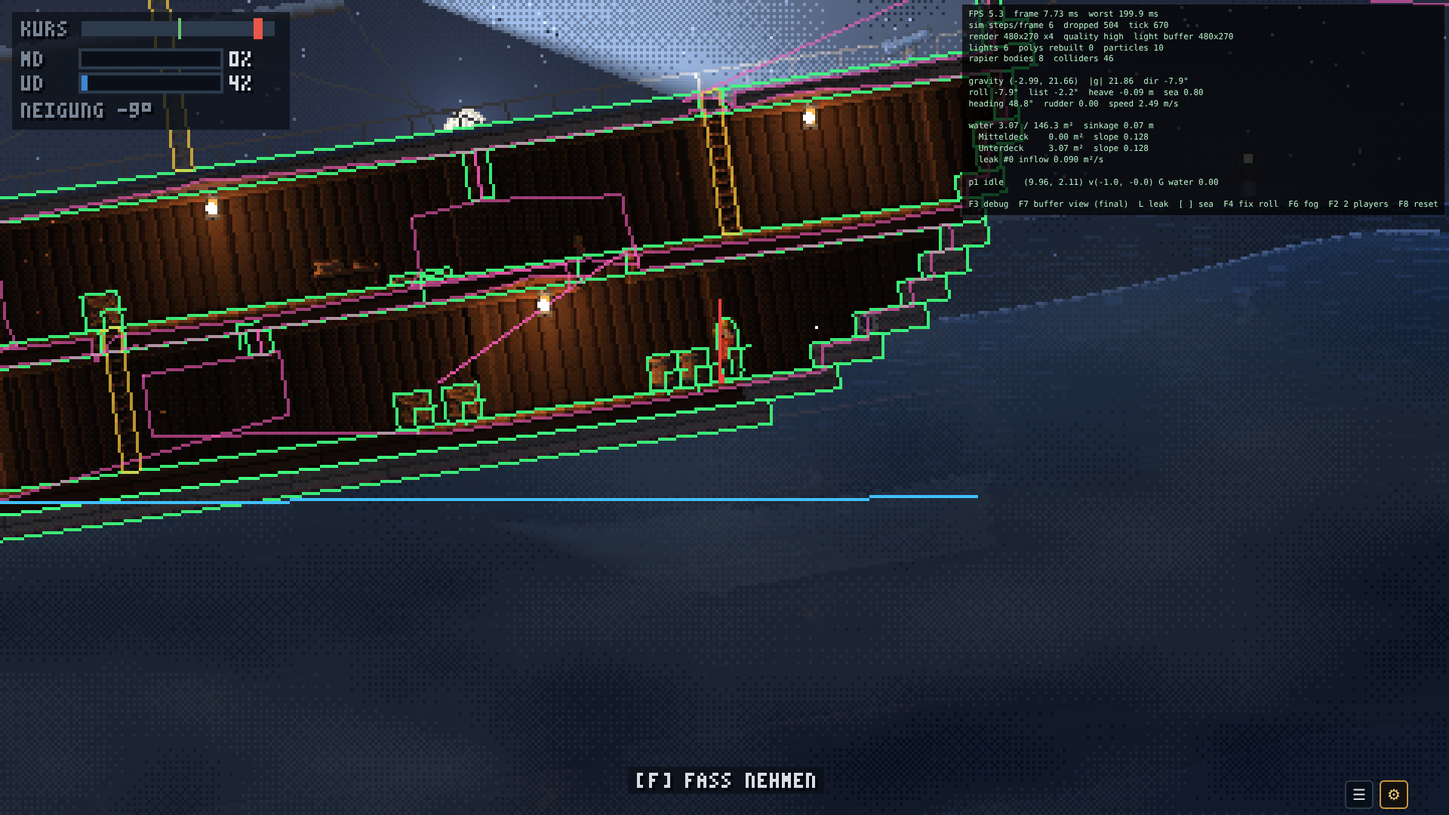
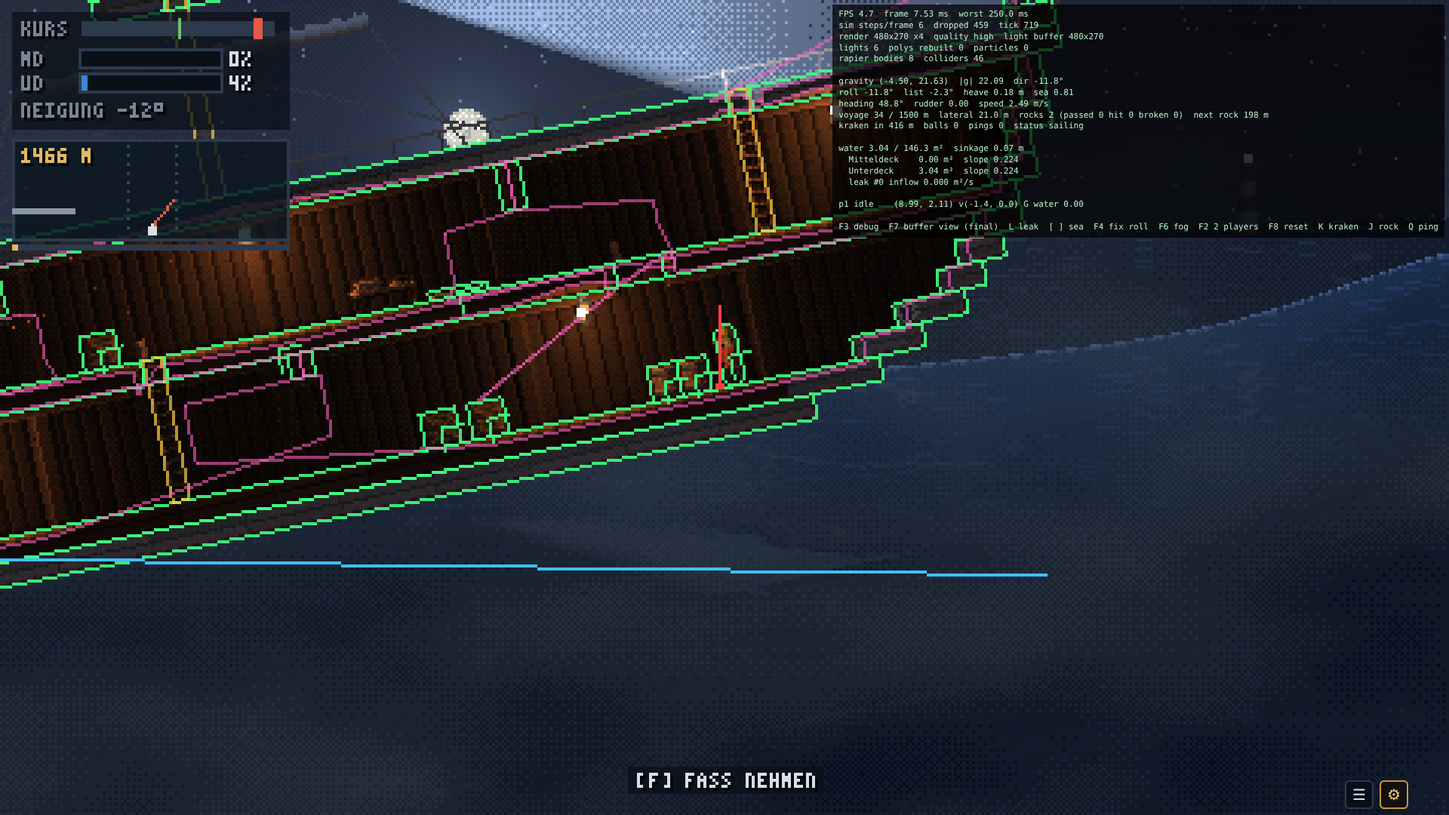
Phase 4: balance, stop at the lighthouse, tuning, verification, docs
Rocks spawn around where the ship will be on its current heading (drifting
no longer dodges them), the ship sinks once the lower deck is full (42 %),
a kraken without planks left to break presses water in. Simulated: without
a crew the ship sinks after 3-5 minutes. On arrival the ship stops in front
of the lighthouse island and the camera turns to it. New tuning section
'Fahrt & Gefahren'. Browser verification covers rock spotting, cannon,
arrival, online pings and the touch ping button. README / DECISIONS / PLAN.

Claude-Session: https://claude.ai/code/session_012Hak5DpWGinFi5foozbzFZ

diff --git a/shared/src/simulation.ts b/shared/src/simulation.ts
@@ -104,6 +104,10 @@ export type HintIcon = 'wheel' | 'pump' | 'searchlight' | 'cannon' | 'workshop' 
 export const ROCK_LOOKAHEAD = 160;
 /** World x offset of the bow tip from the ship pivot (m). */
 export const BOW_OFFSET = 15.6;
+/** Seconds the ship needs to stop after arriving. */
+const ARRIVE_STOP_TIME = 4;
+/** The lighthouse island stands this far past the end of the voyage (m, world x). */
+export const LIGHTHOUSE_ISLAND = 26;
 /** Where the kraken grabs the bow (m ahead of the pivot). */
 export const MONSTER_ATTACK_OFFSET = 19;
 /** Ship-local position of the searchlight lens pivot and the cannon barrel pivot relative to their station (m). */
@@ -443,7 +447,10 @@ export class Simulation {
       volume += c.volume;
       moment += c.volume * c.centroidX;
     }
-    updateShip(s.ship, s.time, dt, { volume, moment }, this.tuning.ship, this.tuning.gameplay.gravity);
+    // arrived: the ship slows down and stops in front of the lighthouse island
+    const G = this.tuning.gameplay;
+    const throttle = s.status === 'arrived' ? clamp((s.statusTimer - (G.arrivedResetTime - ARRIVE_STOP_TIME)) / ARRIVE_STOP_TIME, 0, 1) : 1;
+    updateShip(s.ship, s.time, dt, { volume, moment }, this.tuning.ship, G.gravity, throttle);
     if (s.forcedRoll !== null) {
       s.ship.roll = s.forcedRoll;
       s.ship.rollVel = 0;
@@ -1160,10 +1167,16 @@ export class Simulation {
     const v = s.voyage;
     const G = this.tuning.gameplay;
     const ship = s.ship;
+    // after a jump (debug, reconnect) never spawn a pile of rocks behind the bow
+    if (v.nextRockX < ship.x + 60) v.nextRockX = ship.x + 60;
     // new rocks appear far ahead, denser the closer the lighthouse
     while (v.nextRockX - ship.x < ROCK_LOOKAHEAD && v.nextRockX < v.length - 40) {
+      // around where the ship will be when it gets there on its current heading:
+      // drifting off course does not dodge rocks, only steering does
+      const eta = (v.nextRockX - ship.x) / Math.max(0.5, ship.speed);
+      const predicted = ship.lateral + this.tuning.ship.speed * Math.sin(ship.heading) * eta;
       const inLane = nextRandom(s) < 0.45;
-      const lateral = ship.lateral + (inLane ? this.rand(-1.5, 1.5) : this.rand(-8, 8));
+      const lateral = predicted + (inLane ? this.rand(-1.5, 1.5) : this.rand(-8, 8));
       s.rocks.push({ id: this.nextId(), x: v.nextRockX, lateral, radius: this.rand(1.6, 3.4), spotted: false, hit: false });
       v.nextRockX += this.rand(G.rockSpacingMin, G.rockSpacingMax) * (1 - 0.35 * progress);
     }
@@ -1208,8 +1221,8 @@ export class Simulation {
     if (r.radius > 2.8) this.leakAt('bottom');
   }
 
-  /** Opens a new leak in a part of the hull (bow / bottom), if one is still intact there. */
-  private leakAt(where: 'bow' | 'bottom' | 'any'): void {
+  /** Opens a new leak in a part of the hull (bow / bottom), if one is still intact there. Returns false if none is left. */
+  private leakAt(where: 'bow' | 'bottom' | 'any'): boolean {
     const L = this.layout;
     const midX = L.width / 2;
     const candidates = L.leakPoints.filter((lp) => {
@@ -1218,9 +1231,10 @@ export class Simulation {
       if (where === 'bottom') return lp.inward.y !== 0 || lp.tx > midX + 8;
       return true;
     });
-    if (candidates.length === 0) return;
+    if (candidates.length === 0) return false;
     const pick = candidates[Math.floor(nextRandom(this.state) * candidates.length) % candidates.length]!;
     this.createLeak(pick.id);
+    return true;
   }
 
   /** World-space ray of the searchlight (origin, angle), or null. */
@@ -1278,7 +1292,15 @@ export class Simulation {
           m.attackIn = G.monsterAttackInterval;
           s.ship.rollVel += 0.25;
           this.emit({ type: 'monsterAttack' });
-          this.leakAt('bow');
+          if (!this.leakAt('bow')) {
+            // no planks left to break: it squeezes the hull and water pours in
+            const lower = s.compartments[s.compartments.length - 1];
+            const geom = this.waterGeometry[s.compartments.length - 1];
+            if (lower && geom) {
+              lower.volume = Math.min(geom.capacity, lower.volume + 0.8);
+              refreshSurface(geom, lower);
+            }
+          }
         }
         break;
       case 'flee':

diff --git a/client/src/ui/TuningPanel.ts b/client/src/ui/TuningPanel.ts
@@ -67,6 +67,22 @@ const SECTIONS: { title: string; items: Spec[] }[] = [
       { group: 'gameplay', key: 'sinkFraction', label: 'Sinkt ab Füllung', min: 0.2, max: 1, step: 0.01, unit: '×' },
     ],
   },
+  {
+    title: 'Fahrt & Gefahren',
+    items: [
+      { group: 'gameplay', key: 'voyageLength', label: 'Strecke (ab Neustart)', min: 200, max: 4000, step: 50, unit: 'm' },
+      { group: 'gameplay', key: 'stormGrowth', label: 'Sturm wächst um', min: 0, max: 1, step: 0.05 },
+      { group: 'gameplay', key: 'rockSpacingMin', label: 'Felsen-Abstand min', min: 15, max: 200, step: 5, unit: 'm' },
+      { group: 'gameplay', key: 'rockSpacingMax', label: 'Felsen-Abstand max', min: 20, max: 300, step: 5, unit: 'm' },
+      { group: 'gameplay', key: 'rockSpotRange', label: 'Scheinwerfer-Reichweite', min: 20, max: 160, step: 5, unit: 'm' },
+      { group: 'gameplay', key: 'shipBeam', label: 'Schiffsbreite (halb)', min: 1, max: 5, step: 0.1, unit: 'm' },
+      { group: 'gameplay', key: 'monsterEvery', label: 'Krake alle', min: 100, max: 2000, step: 25, unit: 'm' },
+      { group: 'gameplay', key: 'monsterHp', label: 'Krake: Treffer nötig', min: 1, max: 10, step: 1 },
+      { group: 'gameplay', key: 'monsterAttackInterval', label: 'Krake greift an alle', min: 2, max: 30, step: 0.5, unit: 's' },
+      { group: 'gameplay', key: 'cannonReload', label: 'Kanone lädt', min: 0.3, max: 8, step: 0.1, unit: 's' },
+      { group: 'gameplay', key: 'ballSpeed', label: 'Kugel-Tempo', min: 8, max: 50, step: 1, unit: 'm/s' },
+    ],
+  },
 ];
 
 const STORAGE_KEY = 'lw.tuning.v1';

diff --git a/client/src/game/Game.ts b/client/src/game/Game.ts
@@ -2,6 +2,7 @@ import { Sprite } from 'pixi.js';
 import {
   BOW_OFFSET,
   DEFAULT_TUNING,
+  LIGHTHOUSE_ISLAND,
   PLAYER_HALF_HEIGHT,
   monsterHead,
   worldToShip,
@@ -579,6 +580,12 @@ export class Game {
       tx = (targets.reduce((a, p) => a + p.x, 0) / targets.length) * PPM;
       ty = (targets.reduce((a, p) => a + p.y, 0) / targets.length) * PPM + 18;
     }
+    // arrived: the camera turns towards the lighthouse island
+    if (s.status === 'arrived') {
+      const islandX = (s.voyage.length + LIGHTHOUSE_ISLAND) * PPM;
+      tx = tx + (Math.min(islandX, tx + 260) - tx) * 0.55;
+      ty -= 20;
+    }
     if (!this.camera) this.camera = { x: tx, y: ty };
     const k = 1 - Math.exp(-dt * 5);
     this.camera.x += (tx - this.camera.x) * k;
@@ -604,7 +611,7 @@ export class Game {
     let lx = left + width * 0.86;
     // the far sea band is drawn with a quarter of the wave height, 34 px up
     let ly = farSurfaceAt(lx) * 0.25 - 31;
-    const islandX = (s.voyage.length + 22) * PPM;
+    const islandX = (s.voyage.length + LIGHTHOUSE_ISLAND) * PPM;
     const near = islandX < lx;
     if (near) {
       lx = islandX;

diff --git a/shared/src/ship.ts b/shared/src/ship.ts
@@ -80,12 +80,13 @@ export function updateShip(
   load: HullLoad,
   M: Readonly<ShipTuning> = DEFAULT_TUNING.ship,
   gravity = GRAVITY,
+  throttle = 1,
 ): void {
   // course
   ship.heading = clamp(ship.heading + (ship.rudder * M.turnRate + courseDrift(t)) * dt, -1.3, 1.3);
-  ship.speed = M.speed * (0.35 + 0.65 * Math.cos(ship.heading));
+  ship.speed = M.speed * (0.35 + 0.65 * Math.cos(ship.heading)) * throttle;
   ship.x += ship.speed * dt;
-  ship.lateral += M.speed * Math.sin(ship.heading) * dt;
+  ship.lateral += M.speed * Math.sin(ship.heading) * dt * throttle;
 
   // list from water distribution and rudder heel
   const maxList = M.maxListDeg * DEG;

diff --git a/shared/src/tuning.ts b/shared/src/tuning.ts
@@ -144,7 +144,7 @@ export const CODE_DEFAULTS: Readonly<Tuning> = {
     searchlightSpeed: 1.5,
     cannonSpeed: 1.0,
     workshopCooldown: 1.0,
-    sinkFraction: 0.8,
+    sinkFraction: 0.42,
     sunkResetTime: 5,
     overboardTime: 2.5,
     bubbleTime: 3,

diff --git a/shared/src/index.ts b/shared/src/index.ts
@@ -14,6 +14,7 @@ export { GROUP, OBJECT_SPECS, initPhysics } from './physics';
 export {
   BOW_OFFSET,
   CANNON_PIVOT,
+  LIGHTHOUSE_ISLAND,
   MONSTER_ATTACK_OFFSET,
   ROCK_LOOKAHEAD,
   SEARCHLIGHT_PIVOT,

diff --git a/README.md b/README.md
@@ -4,8 +4,9 @@ Koop-Browserspiel für 2–4 Spieler: Die Crew steuert ein Schiff durch einen ne
 Das Schiff ist ein Querschnitt mit drei Decks; man läuft zu Stationen (Steuerrad, Scheinwerfer, Pumpe,
 Werkstatt, Kanone) und hält das Schiff zusammen weiter.
 
-**Stand: Phase 1 (spielbares Schiff), Phase 2 (Look) und Phase 3 (Online-Multiplayer) sind umgesetzt.**
-2–4 Geräte spielen über einen Raumcode zusammen auf einem Schiff; allein üben geht weiterhin ohne Server.
+**Stand: Phase 1–4 sind umgesetzt** – spielbares Schiff, Look, Online-Multiplayer und Spielinhalt: Die Crew muss das
+Schiff durch Sturm, Felsen im Nebel und Kraken-Angriffe bis zum Leuchtturm bringen. 2–4 Geräte spielen über einen
+Raumcode zusammen; allein üben geht ohne Server. Mit Platzhalter-Sounds.
 
 ![Scheinwerfer im Nebel](screenshots/chromium-07-scheinwerfer-nebel.png)
 
@@ -16,8 +17,10 @@ Werkstatt, Kanone) und hält das Schiff zusammen weiter.
 | ![](screenshots/chromium-03-debug-overlay.png) | ![](screenshots/chromium-05-normal-buffer.png) | ![](screenshots/chromium-08-touch-ipad.png) |
 | **Steuerrad zum Drehen** | **Einstellungen (F9)** | **Lobby** |
 | ![](screenshots/chromium-09-steuerrad-widget.png) | ![](screenshots/chromium-10-einstellungen.png) | ![](screenshots/chromium-11-lobby.png) |
-| **Online: zweiter Browser sieht „ANNA“** | | |
-| ![](screenshots/chromium-12-mehrspieler.png) | | |
+| **Online: zweiter Browser sieht „ANNA“** | **Scheinwerfer entdeckt Felsen (Seekarte links)** | **Krake am Bug, Kanone** |
+| ![](screenshots/chromium-12-mehrspieler.png) | ![](screenshots/chromium-13-felsen-scheinwerfer.png) | ![](screenshots/chromium-14-krake-kanone.png) |
+| **Leuchtturm erreicht** | | |
+| ![](screenshots/chromium-15-ankunft.png) | | |
 
 ---
 
@@ -78,7 +81,9 @@ Weitere Befehle:
 | Leiter rauf/runter | W / S | ↑ / ↓ | Stick hoch/runter |
 | Springen | Leertaste | Shift rechts / Num 0 | Button ⤒ |
 | Station betreten/verlassen, Luke öffnen/schließen, Leck reparieren, Planke holen | E | Enter / Num 1 | Button E |
-| Objekt aufheben/ablegen, Planke an der Werkbank nehmen | F | Strg rechts / Num 2 / . | Button F |
+| Objekt aufheben/ablegen, Planke an der Werkbank nehmen, **Kanone abfeuern** | F | Strg rechts / Num 2 / . | Button F |
+| **Ping** (Stelle für alle markieren) | Rechtsklick / Mittelklick / Q (an der Maus) | – | Button ❗, dann auf die Stelle tippen (2× tippen = „hier bei mir“) |
+| Menü / Ton aus | Esc / M | – | ☰ oben rechts |
 
 Allein spielend steuern auch die Pfeiltasten Spieler 1.
 
@@ -89,7 +94,8 @@ Allein spielend steuern auch die Pfeiltasten Spieler 1.
 - **Pumpe:** den Hebel rauf und runter ziehen (oder A und D **im Wechsel**). Jeder volle Hub pumpt Wasser ab.
 - **Scheinwerfer:** auf der Kompass-Scheibe in die Richtung zeigen, in die der Kegel leuchten soll. Das Rollen des Schiffs
   wird ausgeglichen, solange man festhält.
-- **Kanone:** zielen wie beim Scheinwerfer (Feuern kommt später).
+- **Kanone:** zielen wie beim Scheinwerfer, **F feuert** (dann 2 s Nachladen, Balken unter der Scheibe).
+- Neben dem Steuerrad erscheint groß die **Seekarte** (siehe unten).
 
 E oder Leertaste verlässt die Station. Auf Touch-Geräten zeigen die Buttons E und F als Icon, was sie gerade tun würden
 (Steuerrad, Pumpe, Luke, Hammer, Planke, Aufheben …). Ist ein Button grau, gibt es dort gerade nichts zu tun.
@@ -106,11 +112,37 @@ E oder Leertaste verlässt die Station. Auf Touch-Geräten zeigen die Buttons E 
 | F6 | Nebel an/aus |
 | F2 | zweiten lokalen Spieler hinzufügen/entfernen |
 | F8 | Neustart |
+| K / J / P | Krake sofort / Felsen direkt voraus / 200 m vorspulen |
 | F9 | Einstellungen (auch über ⚙ oben rechts im Dev-Server) |
 | Esc | Menü (Lobby / im Spiel: Raumcode, Einladungslink, Schiff verlassen) – auf Touch-Geräten ☰ oben rechts |
 
 Online dürfen nur die Person, die das Schiff geöffnet hat (Host), Debug-Tasten und das Einstellungs-Panel benutzen; die
 Werte gelten dann für alle an Bord. F2 (zweiter lokaler Spieler) gibt es online nicht – da hat jeder sein Gerät.
+
+## So läuft eine Fahrt (Phase 4)
+
+Ziel: das Schiff **1500 m bis zum Leuchtturm** bringen (Anzeige „820 M“ + Balken unter der Seekarte). Je näher man kommt,
+desto stärker der **Sturm**: höhere Wellen, dichterer Nebel, Regen, Blitze. Ohne Crew sinkt das Schiff nach 3–5 Minuten.
+
+- **Felsen im Nebel:** tauchen weit voraus auf. Wer am **Scheinwerfer** (Mastkorb) den Kegel knapp über den Horizont
+  schwenkt, entdeckt sie und ruft „Felsen!“. Entdeckte Felsen erscheinen auf der **Seekarte** (HUD links oben und groß
+  neben dem Steuerrad): unten das eigene Schiff, nach oben die Fahrtrichtung, **rot blinkend = liegt im Weg**. Am
+  **Steuerrad** daran vorbeisteuern – oder mit der **Kanone** zerschießen (nur Felsen im Weg). Ein Treffer am Bug reißt
+  Lecks und wirft alle durcheinander. Wer nicht steuert, treibt ab – und das Schiff fährt langsamer.
+- **Der Krake** taucht bei 30 % der Strecke auf (danach alle 450 m), nähert sich, packt den Bug und schlägt alle 7 s ein
+  neues Leck. **Drei Kanonentreffer** verjagen ihn. Mit dem Scheinwerfer sieht man ihn früher, seine Augen leuchten.
+- **Lecks:** Planke an der Werkbank holen (F), am Leck E (Hammer). Bis dahin pumpen. Ist das Unterdeck fast voll, sinkt
+  das Schiff (Neustart nach 5 s).
+- **Ohne Sprache:** Automatische Zurufe (Sprechblasen) – „Ruder!“ wenn der Kurs abdriftet und keiner steuert, „Wasser!“,
+  „Felsen!“, „Krake!“, „Land in Sicht!“. Dazu **Pings**: Der Ping bekommt seine Bedeutung von der Stelle (auf ein Leck =
+  Leck-Symbol, auf eine Station = „hier wird jemand gebraucht“, aufs Meer = Gefahr, sonst Pfeil „hierher“). Pings außerhalb
+  des Bildschirms kleben mit Pfeil am Rand.
+- **Ankunft:** Feuerwerk, Nebelhorn, das Schiff stoppt vor der Leuchtturm-Insel, Bilanz (Felsen umschifft / zerschossen /
+  gerammt, Krake verjagt, Lecks geflickt), nach 15 s geht es von vorn los.
+
+Gute Rollenverteilung zu viert: Steuerrad, Scheinwerfer, Kanone, „Zimmermann“ (Lecks + Pumpe).
+
+Alle Werte (Strecke, Felsen-Abstand, Krake, Kanone, Sturm …) stehen im Einstellungs-Panel unter „Fahrt & Gefahren“.
 
 ### Einmal durchspielen (Testablauf)
 1. **L** drücken → „LECK!“, die nächste Figur ruft per Sprechblase, im Unterdeck spritzt Wasser herein.
@@ -118,7 +150,7 @@ Werte gelten dann für alle an Bord. F2 (zweiter lokaler Spieler) gibt es online
 3. Leiter runter zur **Pumpe** (Unterdeck, Heck), E, dann A/D im Wechsel → Wasserstand sinkt.
 4. Zur **Werkbank** (Mitteldeck), F → Planke in den Händen (man wird langsamer).
 5. Zum Leck, E → Reparatur-Balken; danach ist das Loch geflickt und es läuft kein Wasser mehr nach.
-6. Läuft der Rumpf zu 80 % voll, sinkt das Schiff und das Spiel startet nach 5 s neu.
+6. Läuft das Unterdeck voll (42 % des ganzen Rumpfs), sinkt das Schiff und das Spiel startet nach 5 s neu.
 
 ---
 
@@ -270,11 +302,22 @@ Begründung stehen in [`DECISIONS.md`](DECISIONS.md), der Arbeitsplan in [`PLAN.
 - Namensschilder, Raumcode + Besatzung im HUD, Verbindungsstatus, Netzwerk-Werte im Debug-Overlay (F3)
 - Deploy-Dateien für Fly.io (Docker), Tests mit echten Verbindungen
 
+**Phase 4 – Spielinhalt, Kommunikation, Sound**
+- Fahrt zum Leuchtturm mit wachsendem Sturm (Wellen, Nebel, Regen, Blitze), Leuchtturm wird größer, Ankunft mit Bilanz
+- Felsen im Nebel mit seitlicher Position, Scheinwerfer entdeckt sie, Seekarte, Ausweichen per Steuerrad, Rammen = Lecks
+- Kanone mit Kugeln (ballistisch), zerschießt Felsen im Weg und verjagt den Kraken (3 Treffer)
+- Krake: taucht auf, nähert sich, packt den Bug, schlägt Lecks
+- Pings mit Bedeutung aus dem Ort, für alle sichtbar (auch online, Ratenlimit auf dem Server)
+- Automatische Zurufe: Ruder, Wasser, Felsen, Krake, Land in Sicht
+- 3 zusätzliche Leckstellen (Bug, Boden, Mitteldeck)
+- Platzhalter-Sounds (41 synthetisierte WAVs, austauschbar) mit Web-Audio-Engine: Entfernung/Stereo, gedämpft unter
+  Deck, Loops für Meer/Wind/Regen/Leck, Lautstärke im Menü
+- Snapshots binär statt msgpack: ~0,8 KB statt ~3,5 KB (≈ 16 KB/s pro Gerät)
+
 ## Was (noch) nicht fertig ist
-- Pings (auf eine Stelle zeigen) und weitere automatische Sprechblasen – siehe Vorschlag Phase 4
-- Kanone feuern, Seemonster, Gefahren im Nebel, Ziel/Fortschritt (Leuchtturm erreichen), Sturm/Blitze
-- Sound/Musik
-- Echte Grafiken (alles Platzhalter, aber austauschbar – siehe `client/public/assets/README.md`)
+- Musik (kommt von dir), echte Sounds (Platzhalter sind austauschbar – siehe `client/public/assets/README.md`)
+- Echte Grafiken (alles Platzhalter, aber austauschbar)
+- Weitere Gefahren / Abwechslung (siehe Vorschlag Phase 5), Schwierigkeitsstufen, Statistiken über Runden hinweg
 
 ## Bekannte Probleme
 - **Safari/WebKit nicht automatisch getestet:** In der Build-Umgebung konnte WebKit nicht installiert werden. Das
@@ -292,8 +335,11 @@ Begründung stehen in [`DECISIONS.md`](DECISIONS.md), der Arbeitsplan in [`PLAN.
 - Sehr selten können an exakten Tile-Ecken einzelne Lichtpixel durch Wände „durchblitzen“.
 - **Online: andere Spieler werden vorausberechnet** (sie „machen weiter, was sie zuletzt taten“). Ändern sie plötzlich die
   Richtung, gleitet ihre Figur bei hoher Verzögerung kurz zurück. Im WLAN (< 50 ms) kaum sichtbar.
-- Online kostet ein Snapshot ca. 3 KB (20/s → ~60 KB/s pro Gerät). Für WLAN kein Problem; bei Bedarf lässt sich das später
-  stark komprimieren.
+- Online kostet ein Snapshot ca. 0,8 KB (20/s → ~16 KB/s pro Gerät).
+- **Sounds sind nicht probegehört:** Sie sind synthetisiert und nur technisch geprüft (Pegel, Loops nahtlos). Auf dem
+  iPad: Ist der Stumm-Schalter an, spielt Safari keinen Web-Audio-Ton.
+- Die Felsen-Lage hängt am Kurs: Die Seekarte zeigt Felsen relativ zur aktuellen Spur. Wer stark vom Kurs abkommt, hat
+  andere Felsen im Weg, als vorher rot waren – das ist Absicht (man muss steuern), kann aber anfangs verwirren.
 - Server-Neustart (z. B. neues Deploy) beendet alle laufenden Schiffe.
 
 ---
@@ -311,7 +357,7 @@ SwiftShader, also komplett auf 4 CPU-Kernen. Diese Zahlen sind eine Untergrenze 
 | Spiel, Qualität **low** (CSS-Upscaling + halber Light-Buffer) | 25,6 |
 | Spiel bei 480×270 ×1 (ohne Upscaling) | ~37 |
 
-CPU-Anteil (JavaScript) im selben Browser: **2,6 ms pro Frame** inkl. Simulation, davon ein 60-Hz-Physik-Step **0,13 ms**;
+CPU-Anteil (JavaScript) im selben Browser: **2,6 ms pro Frame** inkl. Simulation (mit Phase 4: 2,8 ms Median), davon ein 60-Hz-Physik-Step **0,13 ms**;
 ein kompletter Neuaufbau aller 6 Licht-Polygone **0,84 ms** (wird gecacht, solange Lichter stillstehen). Der Rest ist
 Software-Rasterisierung von 5 Low-Res-Pässen à 130 000 Pixel plus Upscaling – genau das, was eine echte GPU (auch die eines
 alten iPads) nebenbei erledigt.
@@ -342,17 +388,19 @@ Debug-Overlay (F3 bzw. `?debug`).
       Seite neu laden → wieder auf demselben Platz.
 - [ ] **Einladungslink** über das Teilen-Menü (AirDrop/Nachrichten) öffnen → Lobby mit eingetragenem Code.
 - [ ] **Nach dem Hosten:** Vercel-Seite (HTTPS) mit Fly-Server, 4 Geräte gleichzeitig, auch im Schul-WLAN.
+- [ ] **Eine ganze Fahrt zu zweit/viert:** Ist es schaffbar? Zu leicht/zu schwer? (Felsen-Abstand, Krake, Leck-Einstrom
+      im Panel unter „Fahrt & Gefahren“ / „Spielregeln“ justieren.) Mit P lässt sich vorspulen, K holt den Kraken.
+- [ ] **Seekarte:** Versteht man ohne Erklärung, was rot bedeutet und wohin man steuern muss?
+- [ ] **Pings:** Rechtsklick am Mac, Ping-Button auf dem iPad (antippen, dann Stelle antippen). Sieht man sie gut?
+- [ ] **Sounds anhören** (Ton an, Stumm-Schalter am iPad aus): Was bleibt, was ersetzt du? Lautstärke im Menü (Esc / ☰).
 
 ---
 
-## Vorschlag für Phase 4 (Spielinhalt + Kommunikation)
+## Vorschlag für Phase 5
 
-1. **Pings:** lange auf eine Stelle tippen / mittlere Maustaste → Marker mit Icon für alle (Leck, Hilfe, hierher, Planke).
-   Nachrichten laufen schon als Befehle über den Server; ein Ping ist nur ein weiterer Typ.
-2. **Mehr automatische Sprechblasen:** „Ruder unbesetzt!“, „Wasser steigt!“, „Luke zu!“ – ausgelöst von der Simulation,
-   damit sie auf allen Geräten gleich erscheinen.
-3. **Gefahren im Nebel:** Felsen und Riffe tauchen auf, die man nur mit dem Scheinwerfer rechtzeitig sieht; Kollision =
-   Leck an der getroffenen Seite. Damit bekommen Steuerrad und Scheinwerfer zusammen eine Aufgabe.
-4. **Ziel:** Strecke bis zum Leuchtturm, Fortschrittsanzeige, Sturm wird stärker, je näher man kommt.
-5. **Kanone:** Kugeln aus der Werkstatt holen, laden, feuern – gegen etwas, das sich im Nebel nähert.
-6. **Sound:** Meeres-Ambience, Holzknarzen, Pumpe, Leck, Nebelhorn (Web Audio, Lautstärke an Schlagseite/Sturm gekoppelt).
+1. **Musik** von dir einbauen (ruhiger Loop, der mit dem Sturm intensiver wird – zwei Stems übereinander blenden).
+2. **Abwechslung:** Nebelbänke ohne Sicht, Treibgut (Planken auffischen), ein Sturmbrecher, der das Deck flutet, Blitz
+   schlägt in den Mast (Feuer löschen).
+3. **Schwierigkeitsstufen** für den Raum (Strecke, Felsen-Dichte, Krake) und eine kleine **Bestenliste** pro Raum.
+4. **Echte Grafiken** schrittweise (Spielerfigur, Krake, Stationen) – das Format bleibt gleich.
+5. **Leistung auf alten iPads** messen und, falls nötig, Partikel/Regen nach Qualitätsstufe reduzieren.

diff --git a/DECISIONS.md b/DECISIONS.md
@@ -129,3 +129,34 @@ Format: **Entscheidung** – Begründung.
 - **Lobby und Menü als DOM** (nicht im Pixel-HUD): Texteingabe und iPad-Tastatur funktionieren nur mit echten
   Eingabefeldern. Profil (Name, Farbe) in `localStorage`.
 - **Raumcode und Besatzung im HUD unter dem Kurs-Panel**, weil oben rechts die Menü-/Einstellungs-Knöpfe liegen.
+
+## Phase 4 – Spielinhalt, Kommunikation, Sound
+- **Binär-Snapshots mit Schema (`shared/src/net/codec.ts`):** Positionen als int16 in mm, Geschwindigkeiten /400, Winkel
+  /8000, Aufzählungen als Byte, alles andere float32. Das Schema ist aus den State-Interfaces getypt (fehlt ein Feld, kompiliert
+  es nicht), ein Rundreise-Test vergleicht jeden Wert. 3,5 KB → 0,8 KB pro Snapshot. Events bleiben msgpack (selten, vielgestaltig).
+  Delta-Kompression bewusst nicht: Ganz-Snapshots sind robust gegen Verbindungsabbrüche und einfach.
+- **Seitliche Position (`ship.lateral`) statt 2D-Seekarte in der Simulation:** Die Seitenansicht kann „neben dem Kurs“
+  nicht zeigen. Felsen haben deshalb eine Querposition, das Schiff driftet mit dem Kurswinkel quer – die Seekarte (Draufsicht)
+  macht das sichtbar. Felsen entstehen um die **vorausberechnete** Position bei Ankunft (aktueller Kurs), sonst wäre
+  Nichtstun (Abdriften) die sicherste Strategie.
+- **Entdecken durch den Scheinwerfer** (Strahl-Winkel gegen Richtung zum Felsen, Reichweite 95 m) statt automatisch: gibt
+  dem Scheinwerfer eine echte Aufgabe und erzwingt Absprache Scheinwerfer ↔ Steuerrad – ohne Sprache über Seekarte und Zurufe.
+- **Felsen in der Spur stehen auf dem nahen Meer, die anderen auf dem fernen Band** (kleiner, blasser): einfache Tiefe ohne
+  zweite Kamera.
+- **Kanone ballistisch mit eigener „Welt-Schwerkraft“ (12 m/s²)** statt der stilisierten Spieler-Schwerkraft (22): schöne
+  Flugbahnen, Reichweite ~45 m. Kugeln zerstören nur Felsen in der eigenen Spur.
+- **Krake als Zustandsautomat** (auftauchen → nähern → angreifen → fliehen) mit Lebenspunkten; hat er keine Planke mehr zum
+  Zerbrechen, drückt er Wasser direkt ins Unterdeck – sonst wäre er nach drei Lecks harmlos.
+- **Sinken ab 42 % des Rumpfvolumens** (vorher 80 %): Wasser kann nicht nach oben gedrückt werden, das Unterdeck allein ist
+  47 % – mit 80 % konnte das Schiff praktisch nie sinken. Simuliert: ohne Crew sinkt es nach 3–5 Minuten.
+- **Pings als `SimCommand` mit Bedeutung aus dem Ort** (Leck, Station, Luke, Meer = Gefahr, sonst „hierher“): ein Klick
+  genügt, kein Auswahlmenü – wichtig auf dem iPad. Online darf jeder pingen (max. 4/s), der Server setzt die Spieler-Id.
+- **Automatische Zurufe in der Simulation** (mit Abklingzeiten im State), damit sie auf allen Geräten gleich erscheinen.
+- **Ankunft:** Status `arrived`, das Schiff bremst in 4 s ab und steht vor der Insel (26 m hinter dem Ziel), Kamera schwenkt
+  hin, Bilanz im HUD, Neustart nach 15 s.
+- **Sounds synthetisiert im Asset-Generator** (eigener kleiner Synthesizer + WAV-Encoder, deterministisch) statt
+  Sound-Bibliothek oder Downloads: keine Lizenzfragen, austauschbar wie die Grafiken (Hash-Liste schützt ersetzte Dateien),
+  `index.json` listet die Dateien. 22 kHz mono hält es bei ~3 MB; die Sounds werden erst nach dem ersten Tippen geladen.
+- **Web Audio mit zwei Bussen** (Effekte, Ambience mit Tiefpass für „unter Deck“), Lautstärke/Pan nach Abstand zum eigenen
+  Spieler. Eigene Ereignisse kommen aus der Vorhersage (sofort), fremde aus den Server-Events – keine doppelten Sounds.
+- **Regen/Blitz rein im Client** (Math.random erlaubt, weil ohne Einfluss aufs Spiel); Blitz hellt über die Exposure auf.

diff --git a/PLAN.md b/PLAN.md
@@ -86,3 +86,14 @@ Legende: `[x]` erledigt, `[ ]` offen. Jeder Schritt endet mit `npm run build`, `
 - [x] Namensschilder, Raumcode im HUD, Verbindungsstatus, getrennte Spieler halb durchsichtig
 - [x] `npm run dev` startet Server + Client; Dockerfile + `fly.toml`; Verifikation mit 2 Browsern
 - [x] Hosting eingerichtet: Server auf Fly.io, Client auf Vercel mit `VITE_SERVER_URL`
+
+## Phase 4 – Spielinhalt, Kommunikation, Sound
+- [x] Snapshots binär (Schema-Codec, ~4× kleiner), Protokoll-Version 2
+- [x] Fahrt zum Leuchtturm, Sturm wächst, Ankunft mit Bilanz und Neustart
+- [x] Felsen mit Querposition, Entdecken per Scheinwerfer, Rammen = Lecks, Seekarte (HUD + am Steuerrad)
+- [x] Kanone feuert (ballistisch), zerschießt Felsen, verjagt den Kraken
+- [x] Krake: auftauchen, nähern, Bug packen, Lecks schlagen, fliehen
+- [x] Pings (Maus, Q, Touch-Button) mit Bedeutung aus dem Ort, Rand-Pfeile; automatische Zurufe
+- [x] Regen, Blitze, dichterer Nebel, Leuchtturm-Insel
+- [x] Platzhalter-Sounds (Generator) + Audio-Engine + Lautstärke im Menü
+- [x] Tests (Fahrt, Felsen, Scheinwerfer, Kanone, Krake, Pings, Zurufe, Codec), Browser-Verifikation, Balance-Simulation
